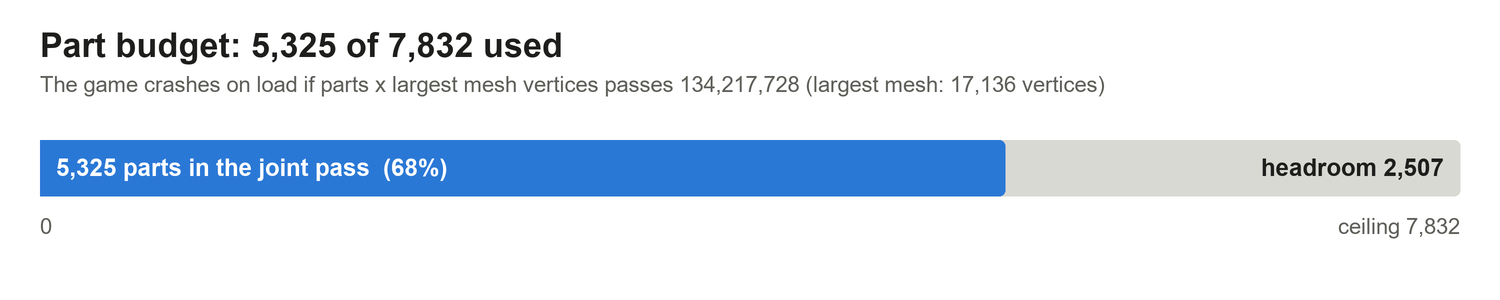
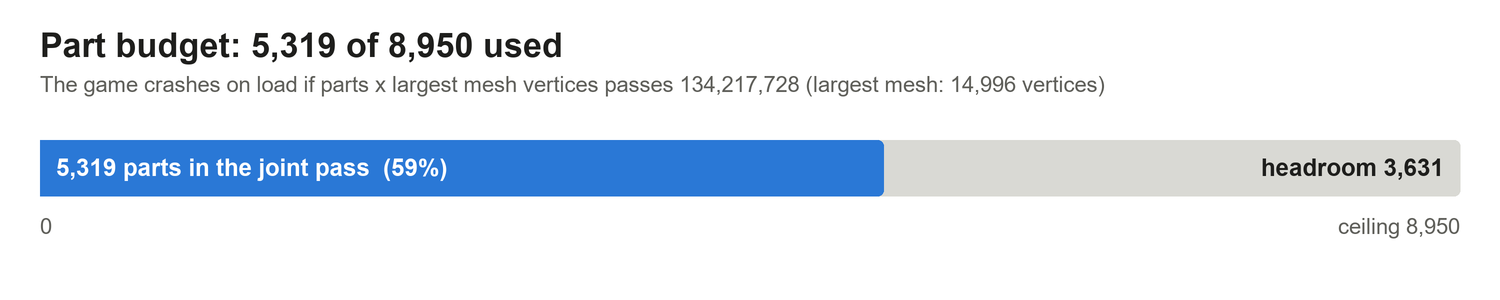
MCRN Corvette docs: v0.9.13 figures, part ceiling 8,950, changelog
Six PDC mounts merged away (6 parts fewer on every variant; Rocinante
logged 5,221 on a load of 25 November). Largest mesh now a stock helmet
at 14,996 vertices after the hanging suit's mesh was reduced, so the
part ceiling rises from 7,832 to 8,950. Part budget and category charts
redrawn.

diff --git a/Docs/Tachi_Ship_Statistics.md b/Docs/Tachi_Ship_Statistics.md
@@ -2,7 +2,7 @@
 
 A custom salvage ship for Hardspace: Shipbreaker, modeled on the MCRN Corvette-class light frigate *Tachi* from *The Expanse*.
 
-Version 0.9.12, 24 November 2026. The v0.9.12 figures are the v0.9.11 figures below changed by simple arithmetic from the parts log kept while building, not a new census: on every variant 5 slot covers close the gaps in the Engineering ceiling, the four generators became the stock generator with its 3 status lights each (12 lights), 6 PDC ammo posters hang on the ammo crates, and the 8 reactor injector nozzles (6 pipe pieces each) became a 5-part thruster nozzle (8 parts fewer); the Rocinante also gains its railgun ammo poster and 2 generators on the railgun breech (17 parts). The Rocinante was then loaded on this build: the game counted 5,211 parts, 2 fewer than calculated. After that load, 16 reaction mass tanks were hung under the cryo deck plates on every variant (16 parts). A second Rocinante load with the tanks counted 5,227, as calculated. The v0.9.11 figures were the v0.9.10 measurements below changed by simple arithmetic: the cryo ring was rebuilt with longer pipes (12 straight pipes fewer, 2 cut points more, so 10 parts fewer on every variant), and ghost ships carry a 60th Protomolecule node. The Rocinante's count was logged on a load of this build (5,181 parts, normal ship). The paragraph below describes the v0.9.10 measurements. The MCRN Tachi figures, its categories and its loose parts are from a load of the v0.9.10 build on 23 November, with the mod's spawn census. The Gas Hauler's part counts, loose parts and cut points are from a load of the same day as a ghost ship; its normal-ship counts are those less its 59 nodes. The Rocinante was not loaded on this build: its figures are its v0.9.9 counts plus the 94 parts the base ship gained (the point defense housings rebuilt, the rings cut in eight, the fore hull regrouped). The section tables are from the v0.9.8 census and were not re-measured. "Measured" means taken from the game or the editor on that build. "Estimate" means calculated, with the method given.
+Version 0.9.13, 25 November 2026. The v0.9.13 figures are the v0.9.12 figures less 6 parts on every variant: the six point defense mounts were merged into their trusses and gun bodies. The Rocinante was loaded on this build and the game counted 5,221 parts, as calculated. The hanging suit's mesh was reduced, so the largest mesh is now a stock helmet (14,996 vertices) and the part ceiling rose to 8,950. The v0.9.12 figures were the v0.9.11 figures below changed by simple arithmetic from the parts log kept while building, not a new census: on every variant 5 slot covers close the gaps in the Engineering ceiling, the four generators became the stock generator with its 3 status lights each (12 lights), 6 PDC ammo posters hang on the ammo crates, and the 8 reactor injector nozzles (6 pipe pieces each) became a 5-part thruster nozzle (8 parts fewer); the Rocinante also gains its railgun ammo poster and 2 generators on the railgun breech (17 parts). The Rocinante was then loaded on this build: the game counted 5,211 parts, 2 fewer than calculated. After that load, 16 reaction mass tanks were hung under the cryo deck plates on every variant (16 parts). A second Rocinante load with the tanks counted 5,227, as calculated. The v0.9.11 figures were the v0.9.10 measurements below changed by simple arithmetic: the cryo ring was rebuilt with longer pipes (12 straight pipes fewer, 2 cut points more, so 10 parts fewer on every variant), and ghost ships carry a 60th Protomolecule node. The Rocinante's count was logged on a load of this build (5,181 parts, normal ship). The paragraph below describes the v0.9.10 measurements. The MCRN Tachi figures, its categories and its loose parts are from a load of the v0.9.10 build on 23 November, with the mod's spawn census. The Gas Hauler's part counts, loose parts and cut points are from a load of the same day as a ghost ship; its normal-ship counts are those less its 59 nodes. The Rocinante was not loaded on this build: its figures are its v0.9.9 counts plus the 94 parts the base ship gained (the point defense housings rebuilt, the rings cut in eight, the fore hull regrouped). The section tables are from the v0.9.8 census and were not re-measured. "Measured" means taken from the game or the editor on that build. "Estimate" means calculated, with the method given.
 
 ## At a glance
 
@@ -11,7 +11,7 @@ Version 0.9.12, 24 November 2026. The v0.9.12 figures are the v0.9.11 figures be
 | Length (engine bell to antenna tip) | 133.7 m |
 | Beam (port to starboard, over the gun mounts) | 54.6 m (Gas variant, over the tank racks: 67.2 m) |
 | Height (dorsal to ventral) | 46.3 m (Gas variant: 55.1 m) |
-| Parts counted at load | 5,325 (MCRN Tachi) · 5,227 (Rocinante) · 5,750 (Gas variant), all v0.9.12 |
+| Parts counted at load | 5,319 (MCRN Tachi) · 5,221 (Rocinante) · 5,744 (Gas variant), all v0.9.13 |
 | As a ghost ship | 60 Protomolecule nodes and 252 growth patches more (see Ghost ship content) |
 | Cut points | 260 (Gas variant: 343) |
 | Loose items at spawn | 183 (props, pickups and one floating corpse, in one of six places) |
@@ -72,14 +72,14 @@ If the game sits on the loading screen for more than ten minutes, treat it as a 
 
 | | |
 |---|---|
-| Live parts at spawn (every piece the game simulates) | 5,327 (v0.9.12; 5,296 on v0.9.11) |
-| Parts counted by the game's joint pass | 5,325 (v0.9.12; 5,294 on v0.9.11) |
+| Live parts at spawn (every piece the game simulates) | 5,321 (v0.9.13; 5,327 on v0.9.12) |
+| Parts counted by the game's joint pass | 5,319 (v0.9.13; 5,325 on v0.9.12) |
 | Objects in the ship that never become parts | 260 (see below) |
-| Largest mesh | `Suit_Hanging` (a stock hanging suit), 17,136 vertices |
-| Part ceiling at that mesh size | 7,832 |
-| Headroom | 2,507 parts |
+| Largest mesh | `SM_Bodysuit_Mesh_Helmet` (a stock suit helmet), 14,996 vertices |
+| Part ceiling at that mesh size | 8,950 |
+| Headroom | 3,631 parts |
 
-**The part ceiling.** While the ship loads, the game multiplies the number of parts by the vertex count of the largest single mesh. If that product passes 134,217,728 the game crashes on load. With the current largest mesh that allows 7,832 parts. Adding parts, or adding one mesh larger than 17,136 vertices, both use up the headroom. The rebuilt point defense housings took the ship's own largest mesh (18,291 vertices) below the stock suit's.
+**The part ceiling.** While the ship loads, the game multiplies the number of parts by the vertex count of the largest single mesh. If that product passes 134,217,728 the game crashes on load. With the current largest mesh that allows 8,950 parts. Adding parts, or adding one mesh larger than 14,996 vertices, both use up the headroom. The rebuilt point defense housings took the ship's own largest mesh (18,291 vertices) below the stock suit's, and in v0.9.13 the hanging suit's mesh was reduced from 17,136 to 4,813 vertices.
 
 **Objects that never become parts.** 260 objects in the ship are switched off by the game's own prefabs and are not simulated:
 
@@ -97,14 +97,14 @@ If the game sits on the loading screen for more than ten minutes, treat it as a 
 |---|---|---|
 | Furniture and props | 1,730 | 32.5 % |
 | Decks, walls, stairs and doors | 1,015 | 19.1 % |
-| Machinery, power and weapons | 846 | 15.9 % |
+| Machinery, power and weapons | 840 | 15.8 % |
 | Pipes and cables | 802 | 15.1 % |
 | Cut points | 260 | 4.9 % |
 | Lights | 258 | 4.8 % |
 | Hull panels | 212 | 4.0 % |
 | Structural frame | 204 | 3.8 % |
 
-The category table is from the v0.9.10 census of the MCRN Tachi. Against v0.9.9 the rebuilt point defense housings add 91 machinery parts, and the regrouped fore hull adds 4 cut points. In v0.9.11 the rebuilt cryo ring has 12 straight pipes fewer and 2 cut points more. In v0.9.12 the posters and the 16 reaction mass tanks add 22 furniture parts, the generator status lights 12 lights, the ceiling slot covers 5 hull panels, and the new injector nozzles count 8 pipe parts fewer. The section tables are from the v0.9.8 census of the Rocinante, with the MCRN Tachi's 106 extra furniture parts added to the interior, where they all are. Four pipe pieces at the fore thermal vents carry the cut point type so that they do not joint to the vents; they are counted here as pipe.
+The category table is from the v0.9.10 census of the MCRN Tachi. Against v0.9.9 the rebuilt point defense housings add 91 machinery parts, and the regrouped fore hull adds 4 cut points. In v0.9.11 the rebuilt cryo ring has 12 straight pipes fewer and 2 cut points more. In v0.9.12 the posters and the 16 reaction mass tanks add 22 furniture parts, the generator status lights 12 lights, the ceiling slot covers 5 hull panels, and the new injector nozzles count 8 pipe parts fewer. In v0.9.13 the six point defense mounts were merged into their trusses and gun bodies (6 machinery parts fewer). The section tables are from the v0.9.8 census of the Rocinante, with the MCRN Tachi's 106 extra furniture parts added to the interior, where they all are. Four pipe pieces at the fore thermal vents carry the cut point type so that they do not joint to the vents; they are counted here as pipe.
 
 Categories are assigned from each part's joint type and name. The rules were rewritten for v0.9.5, so these shares are not comparable with earlier versions of this document.
 
@@ -123,11 +123,11 @@ The floating corpse and its suit (14 parts) spawn in one of six places. In this 
 
 ### Loose parts
 
-At spawn the main structure is one body of 5,144 parts (v0.9.12, calculated: every part added since the census is jointed to the ship). Two fittings are loose in this build: a railing and a thruster terminal.
+At spawn the main structure is one body of 5,138 parts (v0.9.13, calculated: every part added since the census is jointed to the ship). Two fittings are loose in this build: a railing and a thruster terminal.
 
 | | |
 |---|---|
-| Main structure | 5,144 parts in one body |
+| Main structure | 5,138 parts in one body |
 | Loose parts | 183, in 159 separate bodies |
 | Loose single items | 150 |
 | Loose bodies of more than one part | 9 |
@@ -219,10 +219,10 @@ The ship comes in three versions, each listed as its own ship in Free Play and o
 |---|---|---|---|
 | What differs | | Colors as an independent warship, keel railgun with its ammo crate and 2 generators on the breech, Belter posters, less furniture | Colors, 24 external tanks on trusses, point defense cannons removed, own bay pose, Belter posters, less furniture |
 | How it is picked | Own ship entry | Own ship entry | Own ship entry |
-| Live parts at spawn | 5,327 (v0.9.12, see Parts) | 5,229 (logged) | 5,752 (5,812 as a ghost ship) |
-| Parts counted by the joint pass | 5,325 | 5,227 as a normal ship (logged), 5,287 as a ghost ship | 5,750 as a normal ship, 5,810 as a ghost ship |
-| Headroom under the part ceiling | 2,507 | 2,605 (2,545 as a ghost ship) | 2,082 (2,022 as a ghost ship) |
-| Main structure | 5,144 | 5,051 | 5,622 as a ghost ship |
+| Live parts at spawn | 5,321 (v0.9.13, see Parts) | 5,223 (logged) | 5,746 (5,806 as a ghost ship) |
+| Parts counted by the joint pass | 5,319 | 5,221 as a normal ship (logged), 5,281 as a ghost ship | 5,744 as a normal ship, 5,804 as a ghost ship |
+| Headroom under the part ceiling | 3,631 | 3,729 (3,669 as a ghost ship) | 3,206 (3,146 as a ghost ship) |
+| Main structure | 5,138 | 5,045 | 5,616 as a ghost ship |
 | Loose parts | 183 in 159 bodies | about 180 in 156 bodies | 190 in 160 bodies, as a ghost ship |
 | Cut points | 260 | 260 | 343 |
 | Size (length x beam x height) | 133.7 x 54.6 x 46.3 m | same | 133.7 x 67.2 x 55.1 m |
@@ -403,6 +403,7 @@ The lore gives performance figures for the Epstein drive in general, not for thi
 | Dimensions, per-section sizes | Part bounds in the Unity editor |
 | Volume | Calculated from part bounds, as described above |
 | Mass | Calculated with the game's own formula from mesh volume and material density, plus game-reported masses for stock parts |
+| v0.9.13 figures | The v0.9.12 figures less the 6 point defense mounts (merged into trusses and gun bodies); Rocinante checked on a load of 25 November: 5,221 counted, as calculated. Largest mesh and part ceiling from the same load's log |
 | v0.9.12 figures | The v0.9.11 figures changed by the parts logged while building (`.claude/parts_ledger.md`): 5 ceiling slot covers, 12 generator status lights, 6 ammo posters, 8 injector nozzles of 5 parts replacing 8 of 6 pipe pieces; Rocinante also 1 railgun poster and 2 generators of 8 parts. Rocinante checked on a load of 24 November: 5,211 counted, 2 under the calculation. Then 16 reaction mass tanks on every variant; a second Rocinante load counted 5,227 |
 | v0.9.11 figures | The v0.9.10 figures changed by the parts added and removed since: the cryo ring (12 straight pipes fewer, 2 cut points more) and the 60th ghost-ship node. Rocinante: joint-pass count and main structure from the mod's spawn census on a load of 23 November, 11:16 |
 | v0.9.10 figures | The mod's spawn census on loads of 23 November: MCRN Tachi as a normal ship, Gas variant as a ghost ship (its normal-ship counts are those less 59 nodes). Rocinante: its v0.9.9 count plus the 94 parts the base ship gained |
